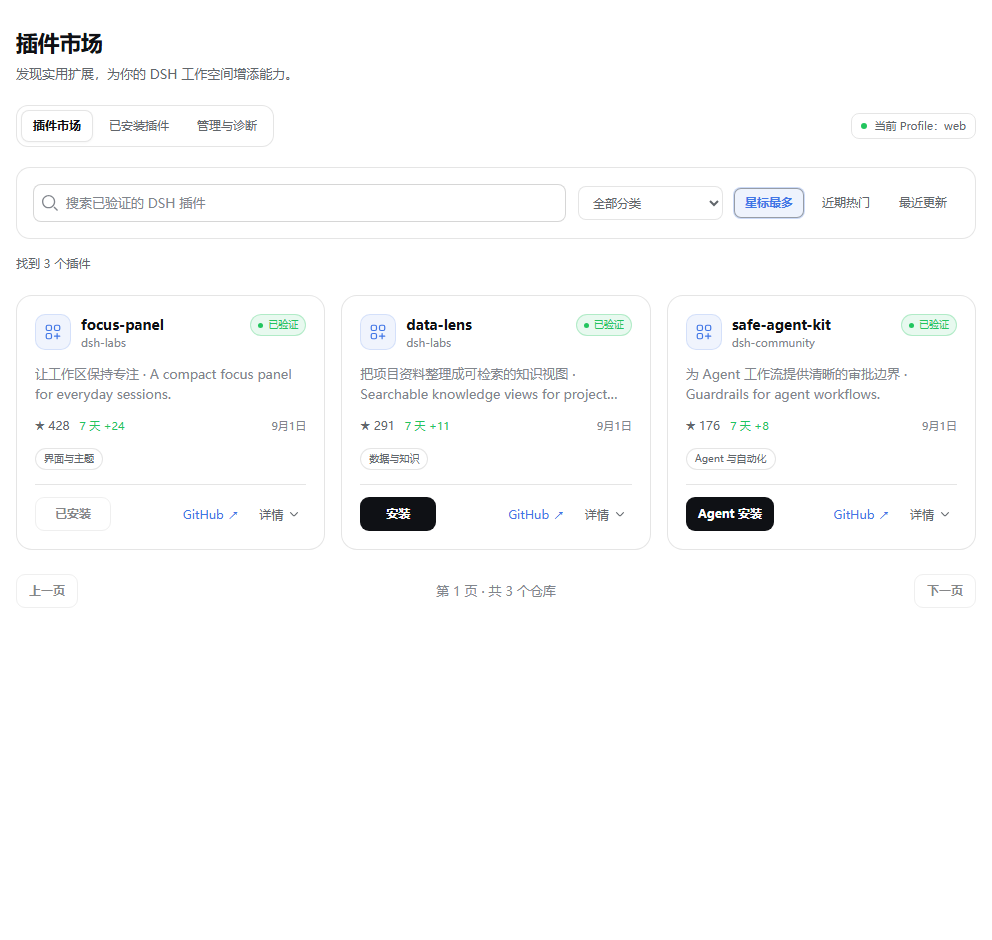
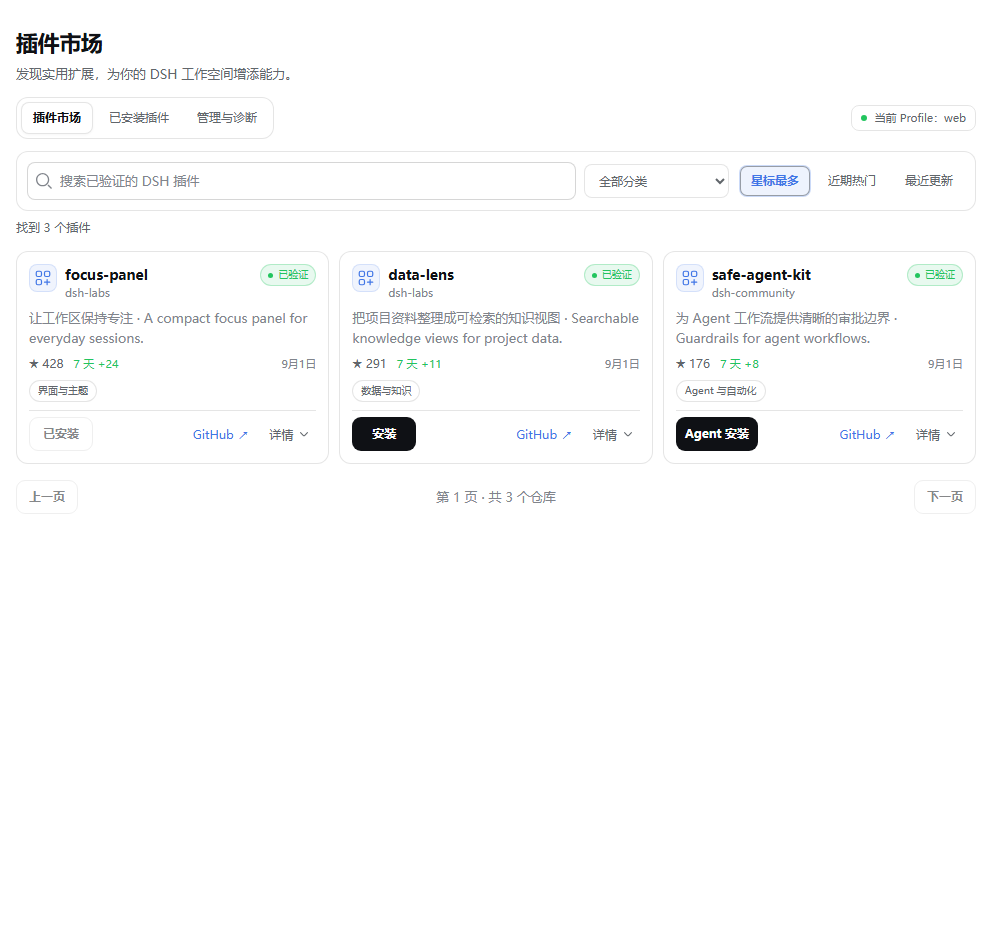
fix: 提高插件市场展示密度并减少滚动距离

diff --git a/lib/client.js b/lib/client.js
@@ -14858,7 +14858,7 @@ var import_dsh_client_ui_primitives = require("@deepseek-ai/dsh-client-ui-primit
 var marketplaceStyles = `
 .dsh-marketplace {
   width: 100%; max-width: 1040px; min-width: 0;
-  display: flex; flex-direction: column; gap: 20px;
+  display: flex; flex-direction: column; gap: 12px;
   color: var(--dsw-alias-label-primary);
   container: marketplace / inline-size;
 }
@@ -14879,7 +14879,7 @@ var marketplaceStyles = `
 .dsh-marketplace .mkt-button[data-tone=danger]:hover:not(:disabled) { background: color-mix(in srgb, var(--dsw-alias-state-error-primary) 8%, transparent); }
 .dsh-marketplace :is(button, a, input, select, summary):focus-visible { outline: 2px solid var(--dsw-alias-state-business-primary); outline-offset: 3px; }
 .dsh-marketplace a:hover { text-decoration: underline; text-underline-offset: 3px; }
-.dsh-marketplace .mkt-toolbar { display: flex; flex-wrap: wrap; align-items: center; gap: 12px; padding: 16px; border: 1px solid var(--dsw-alias-border-l2); border-radius: 14px; background: var(--dsw-alias-bg-layer-3); }
+.dsh-marketplace .mkt-toolbar { display: flex; flex-wrap: wrap; align-items: center; gap: 8px; padding: 10px; border: 1px solid var(--dsw-alias-border-l2); border-radius: 12px; background: var(--dsw-alias-bg-layer-3); }
 .dsh-marketplace .mkt-search { min-width: 0; flex: 1 1 260px; }
 .dsh-marketplace .mkt-search > span { display: flex; width: 100%; height: 38px; }
 .dsh-marketplace .mkt-search input { width: 100%; font-size: 13px; }
@@ -14887,18 +14887,18 @@ var marketplaceStyles = `
 .dsh-marketplace .mkt-results { display: flex; align-items: center; justify-content: space-between; gap: 12px; min-height: 24px; margin-top: -8px; font-size: 12px; color: var(--dsw-alias-label-secondary); }
 .dsh-marketplace .mkt-sort-group { display: flex; align-items: center; gap: 5px; flex-wrap: wrap; }
 .dsh-marketplace .mkt-select { max-width: 100%; min-height: 34px; padding: 5px 26px 5px 10px; margin-right: 5px; border: 1px solid var(--dsw-alias-border-l2); border-radius: 8px; background: var(--dsw-alias-bg-layer-2); color: var(--dsw-alias-label-secondary); font: inherit; font-size: 12px; cursor: pointer; }
-.dsh-marketplace .mkt-cards { display: grid; grid-template-columns: repeat(auto-fit, minmax(min(100%, 285px), 1fr)); align-items: start; gap: 16px; margin: 0; padding: 0; list-style: none; }
-.dsh-marketplace .mkt-card { min-width: 0; overflow: hidden; border: 1px solid var(--dsw-alias-border-l2); border-radius: 16px; background: var(--dsw-alias-bg-layer-3); transition: border-color .18s, box-shadow .18s; }
+.dsh-marketplace .mkt-cards { display: grid; grid-template-columns: repeat(auto-fit, minmax(min(100%, 240px), 1fr)); align-items: start; gap: 10px; margin: 0; padding: 0; list-style: none; }
+.dsh-marketplace .mkt-card { min-width: 0; overflow: hidden; border: 1px solid var(--dsw-alias-border-l2); border-radius: 12px; background: var(--dsw-alias-bg-layer-3); transition: border-color .18s, box-shadow .18s; }
 .dsh-marketplace .mkt-card:hover, .dsh-marketplace .mkt-card:focus-within { border-color: color-mix(in srgb, var(--dsw-alias-state-business-primary) 35%, var(--dsw-alias-border-l2)); box-shadow: 0 5px 18px #00000008; }
-.dsh-marketplace .mkt-card-body { min-height: 252px; padding: 18px; display: flex; flex-direction: column; gap: 12px; }
-.dsh-marketplace .mkt-card-head { display: flex; align-items: flex-start; gap: 10px; min-width: 0; }
+.dsh-marketplace .mkt-card-body { padding: 12px; display: flex; flex-direction: column; gap: 6px; }
+.dsh-marketplace .mkt-card-head { display: flex; align-items: flex-start; gap: 8px; min-width: 0; }
 .dsh-marketplace .mkt-card-name { min-width: 0; flex: 1; display: flex; flex-direction: column; gap: 3px; }
 .dsh-marketplace .mkt-card-name strong { font-size: 14px; font-weight: 650; }
 .dsh-marketplace .mkt-card-name p { margin: 0; }
-.dsh-marketplace .mkt-card-icon { width: 36px; height: 36px; flex: none; display: grid; place-items: center; border: 1px solid color-mix(in srgb, var(--dsw-alias-state-business-primary) 16%, transparent); border-radius: 10px; color: var(--dsw-alias-state-business-primary); background: color-mix(in srgb, var(--dsw-alias-state-business-primary) 8%, transparent); }
+.dsh-marketplace .mkt-card-icon { width: 28px; height: 28px; flex: none; display: grid; place-items: center; border: 1px solid color-mix(in srgb, var(--dsw-alias-state-business-primary) 16%, transparent); border-radius: 8px; color: var(--dsw-alias-state-business-primary); background: color-mix(in srgb, var(--dsw-alias-state-business-primary) 8%, transparent); }
 .dsh-marketplace .mkt-card-icon svg { width: 18px; height: 18px; }
-.dsh-marketplace .mkt-card-actions { display: flex; align-items: center; gap: 8px; flex-wrap: wrap; margin-top: 2px; padding-top: 12px; border-top: 1px solid var(--dsw-alias-border-l2); }
-.dsh-marketplace .mkt-card-actions > button { min-width: 76px; }
+.dsh-marketplace .mkt-card-actions { display: flex; align-items: center; gap: 6px; flex-wrap: wrap; margin-top: 2px; padding-top: 6px; border-top: 1px solid var(--dsw-alias-border-l2); }
+.dsh-marketplace .mkt-card-actions > button { min-width: 64px; padding-inline: 9px; }
 .dsh-marketplace .mkt-detail-toggle { display: inline-flex; align-items: center; gap: 5px; min-height: 32px; padding: 4px 6px; color: var(--dsw-alias-label-secondary); background: transparent; border: 0; border-radius: 6px; cursor: pointer; font: inherit; font-size: 12px; }
 .dsh-marketplace .mkt-detail-toggle:hover, .dsh-marketplace .mkt-pill:hover:not([aria-pressed=true]) { background: var(--dsw-alias-bg-layer-2); }
 .dsh-marketplace .mkt-pager { display: flex; align-items: center; justify-content: space-between; gap: 12px; padding: 4px 0; }
@@ -14923,14 +14923,15 @@ var marketplaceStyles = `
 .dsh-marketplace .mkt-manual-command { display: flex; align-items: center; gap: 10px; flex-wrap: wrap; }
 .dsh-marketplace .mkt-manual-command > span { flex: 1 1 320px; min-width: 0; height: 38px; }
 @container marketplace (max-width: 620px) {
-  .dsh-marketplace .mkt-subnav-group { width: 100%; }
-  .dsh-marketplace .mkt-subnav-group > button { flex: 1; min-width: 0; white-space: normal; padding-inline: 6px; }
-  .dsh-marketplace .mkt-toolbar { padding: 12px; }
   .dsh-marketplace .mkt-search { flex-basis: 100%; }
   .dsh-marketplace .mkt-installed-actions { width: 100%; padding-top: 12px; border-top: 1px solid var(--dsw-alias-border-l2); }
   .dsh-marketplace .mkt-installed-actions > :is(button, a) { flex: 1; }
   .dsh-marketplace .mkt-management { grid-template-columns: minmax(0, 1fr); }
   .dsh-marketplace .mkt-heading h2 { font-size: 20px; }
+}
+@container marketplace (max-width: 480px) {
+  .dsh-marketplace .mkt-subnav-group { width: 100%; }
+  .dsh-marketplace .mkt-subnav-group > button { flex: 1; min-width: 0; white-space: normal; padding-inline: 6px; }
 }
 @media (prefers-reduced-motion: reduce) {
   .dsh-marketplace .mkt-button, .dsh-marketplace .mkt-pill, .dsh-marketplace .mkt-card { transition: none; }

diff --git a/src/client/marketplace-styles.ts b/src/client/marketplace-styles.ts
@@ -2,7 +2,7 @@
 export const marketplaceStyles = `
 .dsh-marketplace {
   width: 100%; max-width: 1040px; min-width: 0;
-  display: flex; flex-direction: column; gap: 20px;
+  display: flex; flex-direction: column; gap: 12px;
   color: var(--dsw-alias-label-primary);
   container: marketplace / inline-size;
 }
@@ -23,7 +23,7 @@ export const marketplaceStyles = `
 .dsh-marketplace .mkt-button[data-tone=danger]:hover:not(:disabled) { background: color-mix(in srgb, var(--dsw-alias-state-error-primary) 8%, transparent); }
 .dsh-marketplace :is(button, a, input, select, summary):focus-visible { outline: 2px solid var(--dsw-alias-state-business-primary); outline-offset: 3px; }
 .dsh-marketplace a:hover { text-decoration: underline; text-underline-offset: 3px; }
-.dsh-marketplace .mkt-toolbar { display: flex; flex-wrap: wrap; align-items: center; gap: 12px; padding: 16px; border: 1px solid var(--dsw-alias-border-l2); border-radius: 14px; background: var(--dsw-alias-bg-layer-3); }
+.dsh-marketplace .mkt-toolbar { display: flex; flex-wrap: wrap; align-items: center; gap: 8px; padding: 10px; border: 1px solid var(--dsw-alias-border-l2); border-radius: 12px; background: var(--dsw-alias-bg-layer-3); }
 .dsh-marketplace .mkt-search { min-width: 0; flex: 1 1 260px; }
 .dsh-marketplace .mkt-search > span { display: flex; width: 100%; height: 38px; }
 .dsh-marketplace .mkt-search input { width: 100%; font-size: 13px; }
@@ -31,18 +31,18 @@ export const marketplaceStyles = `
 .dsh-marketplace .mkt-results { display: flex; align-items: center; justify-content: space-between; gap: 12px; min-height: 24px; margin-top: -8px; font-size: 12px; color: var(--dsw-alias-label-secondary); }
 .dsh-marketplace .mkt-sort-group { display: flex; align-items: center; gap: 5px; flex-wrap: wrap; }
 .dsh-marketplace .mkt-select { max-width: 100%; min-height: 34px; padding: 5px 26px 5px 10px; margin-right: 5px; border: 1px solid var(--dsw-alias-border-l2); border-radius: 8px; background: var(--dsw-alias-bg-layer-2); color: var(--dsw-alias-label-secondary); font: inherit; font-size: 12px; cursor: pointer; }
-.dsh-marketplace .mkt-cards { display: grid; grid-template-columns: repeat(auto-fit, minmax(min(100%, 285px), 1fr)); align-items: start; gap: 16px; margin: 0; padding: 0; list-style: none; }
-.dsh-marketplace .mkt-card { min-width: 0; overflow: hidden; border: 1px solid var(--dsw-alias-border-l2); border-radius: 16px; background: var(--dsw-alias-bg-layer-3); transition: border-color .18s, box-shadow .18s; }
+.dsh-marketplace .mkt-cards { display: grid; grid-template-columns: repeat(auto-fit, minmax(min(100%, 240px), 1fr)); align-items: start; gap: 10px; margin: 0; padding: 0; list-style: none; }
+.dsh-marketplace .mkt-card { min-width: 0; overflow: hidden; border: 1px solid var(--dsw-alias-border-l2); border-radius: 12px; background: var(--dsw-alias-bg-layer-3); transition: border-color .18s, box-shadow .18s; }
 .dsh-marketplace .mkt-card:hover, .dsh-marketplace .mkt-card:focus-within { border-color: color-mix(in srgb, var(--dsw-alias-state-business-primary) 35%, var(--dsw-alias-border-l2)); box-shadow: 0 5px 18px #00000008; }
-.dsh-marketplace .mkt-card-body { min-height: 252px; padding: 18px; display: flex; flex-direction: column; gap: 12px; }
-.dsh-marketplace .mkt-card-head { display: flex; align-items: flex-start; gap: 10px; min-width: 0; }
+.dsh-marketplace .mkt-card-body { padding: 12px; display: flex; flex-direction: column; gap: 6px; }
+.dsh-marketplace .mkt-card-head { display: flex; align-items: flex-start; gap: 8px; min-width: 0; }
 .dsh-marketplace .mkt-card-name { min-width: 0; flex: 1; display: flex; flex-direction: column; gap: 3px; }
 .dsh-marketplace .mkt-card-name strong { font-size: 14px; font-weight: 650; }
 .dsh-marketplace .mkt-card-name p { margin: 0; }
-.dsh-marketplace .mkt-card-icon { width: 36px; height: 36px; flex: none; display: grid; place-items: center; border: 1px solid color-mix(in srgb, var(--dsw-alias-state-business-primary) 16%, transparent); border-radius: 10px; color: var(--dsw-alias-state-business-primary); background: color-mix(in srgb, var(--dsw-alias-state-business-primary) 8%, transparent); }
+.dsh-marketplace .mkt-card-icon { width: 28px; height: 28px; flex: none; display: grid; place-items: center; border: 1px solid color-mix(in srgb, var(--dsw-alias-state-business-primary) 16%, transparent); border-radius: 8px; color: var(--dsw-alias-state-business-primary); background: color-mix(in srgb, var(--dsw-alias-state-business-primary) 8%, transparent); }
 .dsh-marketplace .mkt-card-icon svg { width: 18px; height: 18px; }
-.dsh-marketplace .mkt-card-actions { display: flex; align-items: center; gap: 8px; flex-wrap: wrap; margin-top: 2px; padding-top: 12px; border-top: 1px solid var(--dsw-alias-border-l2); }
-.dsh-marketplace .mkt-card-actions > button { min-width: 76px; }
+.dsh-marketplace .mkt-card-actions { display: flex; align-items: center; gap: 6px; flex-wrap: wrap; margin-top: 2px; padding-top: 6px; border-top: 1px solid var(--dsw-alias-border-l2); }
+.dsh-marketplace .mkt-card-actions > button { min-width: 64px; padding-inline: 9px; }
 .dsh-marketplace .mkt-detail-toggle { display: inline-flex; align-items: center; gap: 5px; min-height: 32px; padding: 4px 6px; color: var(--dsw-alias-label-secondary); background: transparent; border: 0; border-radius: 6px; cursor: pointer; font: inherit; font-size: 12px; }
 .dsh-marketplace .mkt-detail-toggle:hover, .dsh-marketplace .mkt-pill:hover:not([aria-pressed=true]) { background: var(--dsw-alias-bg-layer-2); }
 .dsh-marketplace .mkt-pager { display: flex; align-items: center; justify-content: space-between; gap: 12px; padding: 4px 0; }
@@ -67,14 +67,15 @@ export const marketplaceStyles = `
 .dsh-marketplace .mkt-manual-command { display: flex; align-items: center; gap: 10px; flex-wrap: wrap; }
 .dsh-marketplace .mkt-manual-command > span { flex: 1 1 320px; min-width: 0; height: 38px; }
 @container marketplace (max-width: 620px) {
-  .dsh-marketplace .mkt-subnav-group { width: 100%; }
-  .dsh-marketplace .mkt-subnav-group > button { flex: 1; min-width: 0; white-space: normal; padding-inline: 6px; }
-  .dsh-marketplace .mkt-toolbar { padding: 12px; }
   .dsh-marketplace .mkt-search { flex-basis: 100%; }
   .dsh-marketplace .mkt-installed-actions { width: 100%; padding-top: 12px; border-top: 1px solid var(--dsw-alias-border-l2); }
   .dsh-marketplace .mkt-installed-actions > :is(button, a) { flex: 1; }
   .dsh-marketplace .mkt-management { grid-template-columns: minmax(0, 1fr); }
   .dsh-marketplace .mkt-heading h2 { font-size: 20px; }
+}
+@container marketplace (max-width: 480px) {
+  .dsh-marketplace .mkt-subnav-group { width: 100%; }
+  .dsh-marketplace .mkt-subnav-group > button { flex: 1; min-width: 0; white-space: normal; padding-inline: 6px; }
 }
 @media (prefers-reduced-motion: reduce) {
   .dsh-marketplace .mkt-button, .dsh-marketplace .mkt-pill, .dsh-marketplace .mkt-card { transition: none; }

diff --git a/scripts/ui-preview.tsx b/scripts/ui-preview.tsx
@@ -54,10 +54,19 @@ const installedEntries = [
 const fixtureState = { installs: 0, uninstalls: 0, searches: 0, uninstallBatches: [] as string[][] }
 ;(window as unknown as { __marketplaceFixture?: typeof fixtureState }).__marketplaceFixture = fixtureState
 
+// 密度回归用多行插件，避免只有三个样本时漏掉滚动距离问题。
+const previewCatalog = new URLSearchParams(window.location.search).has('density')
+  ? Array.from({ length: 12 }, (_, index) => {
+      const item = catalog[index % catalog.length]!
+      const repo = `${item.repo}-${index + 1}`
+      return { ...item, repo, fullName: `${item.owner}/${repo}`, packageName: `@dsh/${repo}` }
+    })
+  : catalog
+
 function search(query: string, _page: number, _sort: string, category: string) {
   fixtureState.searches += 1
   const needle = query.trim().toLocaleLowerCase()
-  const items = catalog.filter((item) => {
+  const items = previewCatalog.filter((item) => {
     const matchQuery = needle === '' || [item.repo, item.owner, item.description, ...item.topics].some((value) => value.toLocaleLowerCase().includes(needle))
     const matchCategory = category === 'all' || item.categories.includes(category as (typeof item.categories)[number])
     return matchQuery && matchCategory

diff --git a/CHANGELOG.en.md b/CHANGELOG.en.md
@@ -10,6 +10,7 @@ Registry refresh commits are grouped instead of listed individually.
 
 ### Fixed and improved
 
+- Increased catalog density: two columns from 490px of content width, no fixed minimum card height, and tighter card/filter spacing. A 12-plugin fixture checks that at least four plugins fit fully in a 794px-high viewport.
 - Refined navigation, filter bars, cards, management panels, button sizing, keyboard focus, and light/dark theme support, with responsive action layouts and a distinct uninstall treatment.
 - Added result counts and filter reset, improved empty/loading feedback, and kept batch selection counts and actions consistent across filters, including explicitly indicated hidden selections.
 - Explicit Registry refreshes preserve the last valid snapshot and ETag, and concurrent refreshes share one request.

diff --git a/README.en.md b/README.en.md
@@ -142,6 +142,7 @@ explicitly indicated and remain included in batch actions. **Clear selection** c
 The interface follows DSH light and dark themes, separates navigation, filters, and actions, and adapts cards,
 buttons, and management panels to narrow windows. Uninstall actions have a distinct danger treatment while
 installation and batch actions retain the existing confirmation flow.
+Compact cards fit two columns in a content area of at least 490px, with reduced card padding and filter spacing to shorten scrolling through long lists.
 
 Once a custom-directory uninstall has removed the Profile association, file cleanup failures leave the plugin
 uninstalled and log the residual paths for cleanup after restart. They never reattach potentially partially deleted

diff --git a/README.md b/README.md
@@ -138,6 +138,7 @@ Agent 会先只读检查精确 commit。执行安装、构建、`prepare`、`pos
 
 界面沿用 DSH 明暗主题。导航、搜索筛选、插件操作分区展示；窄窗口下，卡片、操作按钮和管理
 面板自动换行。卸载使用独立的危险操作样式，安装与批量操作继续使用原有确认流程。
+市场采用紧凑卡片：内容区达到 490px 时可显示双列，压缩内边距与筛选区留白，减少浏览长列表时的滚动。
 
 自定义目录卸载完成 Profile 解除关联后，若 Windows 文件占用导致实体清理失败，插件仍保持已卸载，
 任务日志会列出残留路径，供重启后清理；不会重新关联可能已被部分删除的文件。安装成功后的旧备份

diff --git a/CHANGELOG.md b/CHANGELOG.md
@@ -9,6 +9,8 @@
 
 ### 修复与增强
 
+- 提高市场展示密度：内容区 490px 起支持双列，取消卡片固定最小高度，压缩卡片和筛选区留白；
+  新增 12 个插件的密度回归，验证 794px 高窗口首屏至少完整展示 4 个插件。
 - 重整市场导航、筛选工具栏、插件卡片和管理面板，统一按钮尺寸、焦点反馈与明暗主题；
   窄窗口下操作区自动换行，卸载与常用操作在视觉上区分。
 - 增加搜索结果计数和筛选重置，完善加载及空结果反馈；已选插件跨筛选保留，明确提示隐藏的
